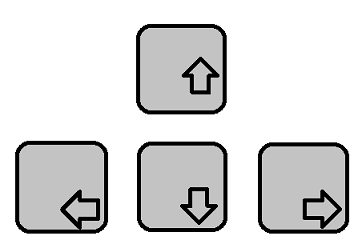
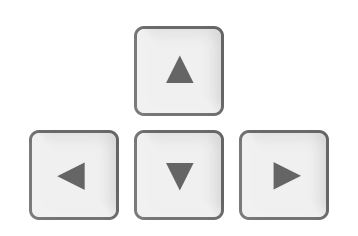
improved arrow keys img

diff --git a/src/states/Game.js b/src/states/Game.js
@@ -103,7 +103,8 @@ export default class extends Phaser.State {
     })
     this.game.add.existing(this.points)
 
-    let arrowImg = this.add.sprite(config.gameWidth - 410, config.gameHeight / 2, 'arrowKeys')
+    let arrowImg = this.add.sprite(config.gameWidth - 380, config.gameHeight - 230, 'arrowKeys')
+    arrowImg.scale.set(0.8)
 
     this.grid = new Grid({
       createBackgroundTile: this.createBackgroundTile.bind(this)
